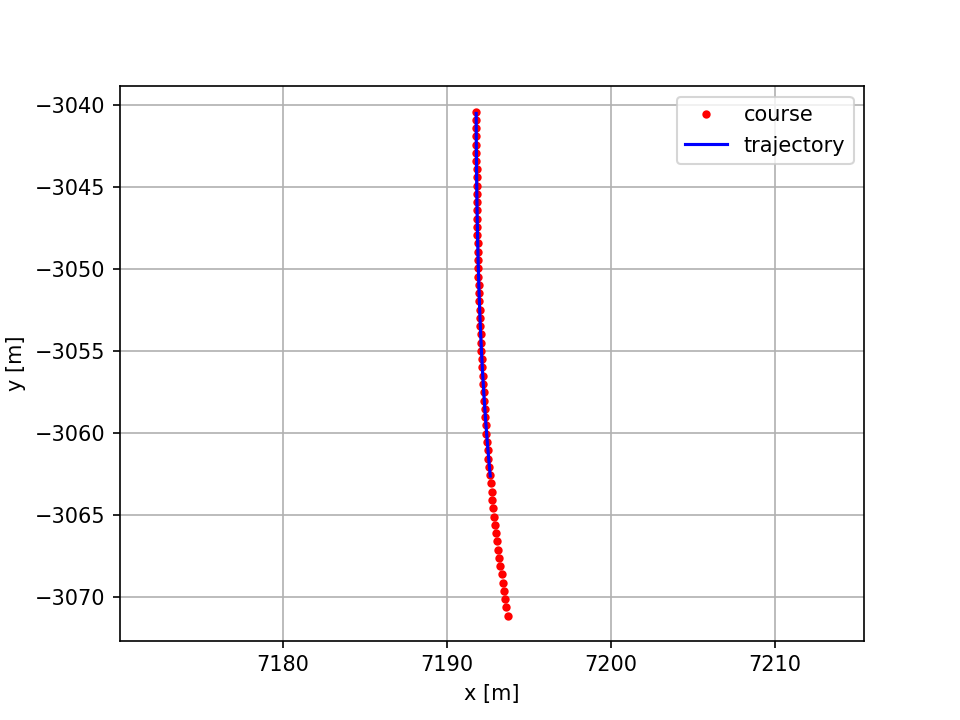
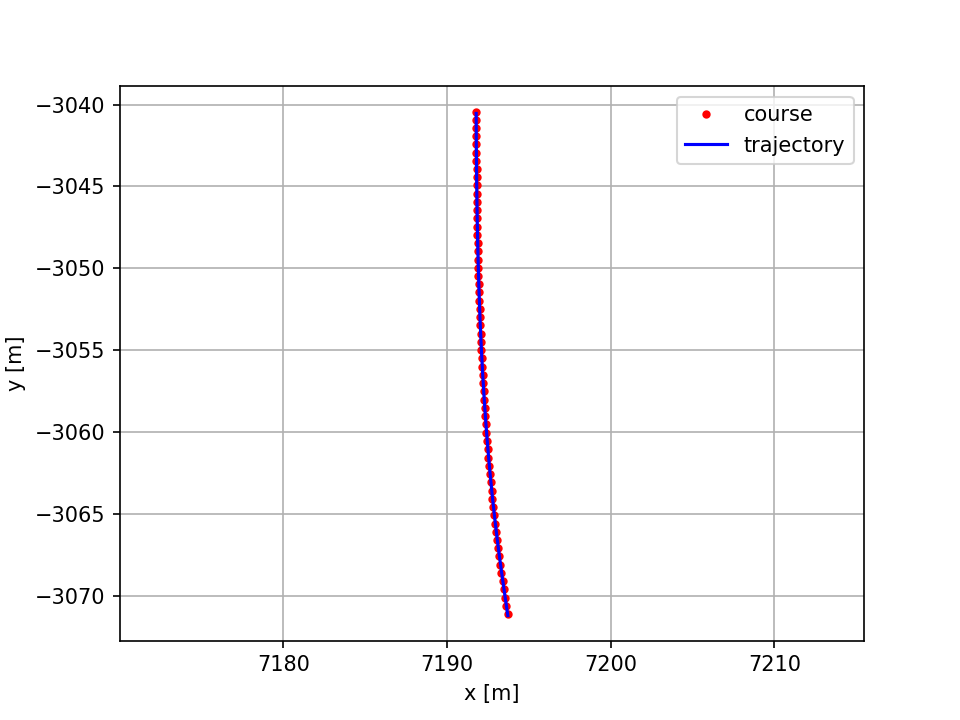
[PurePursuit]  set safe ld

diff --git a/example/demo.cc b/example/demo.cc
@@ -193,14 +193,19 @@ int main() {
       // std::cout<<info<<'\n';
 
       // auto close = cc2->continuousClosest(x1, y1);
+      auto smax=cc2->getSmax();
       auto close = cc2->continuousClosest(p_state.x,p_state.y);
       double ld = ppc.getCurrentLD(std::abs(close.lat_err));
-      std::cout << "close.lat_err=" << close.lat_err << "  close.s=" << close.s << " ld=" << ld << '\n';
       // exit(0);
+      if (std::abs(smax - close.s) < 1e-4) break;
       pursuit::Point2D target{0, 0};
       cc2->findTargetPoint(close, ld, target.first, target.second);
-      std::cout << "target.first=" << target.first << "  target.second=" << target.second << '\n';
-      msg = ppc.fastRun(target, ld);
+
+      // std::cout << "target.first=" << target.first << "  target.second=" << target.second << '\n';
+      // std::cout <<"smax1="<< smax <<"  close.lat_err=" << close.lat_err << "  close.s=" << close.s << " ld=" << ld << '\n';
+      msg = ppc.fastRun(target,ld);
+
+      
     } else {
       // 如果希望每帧插值则在循环中调用
       ppc.setPath(_pathPlanningPointList);
@@ -209,6 +214,7 @@ int main() {
 
     // 使用控制信号和dt更新状态
     ppc.updateVehicleState(msg, dt);
+
     // 更新完毕后获取状态引用
     // p_state.velocity=velocity- p_state.steering_angle/veh_info.max_steer_angle*2;
     count++;
@@ -216,9 +222,9 @@ int main() {
     // 直接调用setVelocity去设置速度
     // 路径改变调用ppc.setPath(_pathPlanningPointList); 去设置路径
 
-    // std::cout << p_state << '\n';
+    // std::cout << p_state << "\n\n";
     log_file << p_state << '\n';
-    if (count >= 200) break;
+    if (count >= 500) break;
     // if (ppc.last_index >= path_len - 1 || ppc.last_index <= 1) break;
   }
   auto end = std::chrono::high_resolution_clock::now();

diff --git a/scripts/transport.py b/scripts/transport.py
@@ -1,0 +1,29 @@
+#!/usr/bin/env python3
+# convert_to_csv.py
+#
+# 将“time    state.x    state.y”这种**以制表符或多个空格分隔**的文本
+# 转换成标准逗号分隔 (CSV) 文件。
+#
+# 用法示例：
+#   python3 convert_to_csv.py raw.txt trajectory.csv
+#
+# ──────────────────────────────────────────────────────────────────────────────
+
+import sys
+import pandas as pd
+
+def convert(in_path: str, out_path: str) -> None:
+    """
+    读取 `in_path`（任意空白符分隔），写出为 `out_path`（CSV）。
+    """
+    # `sep=r'\s+'` 可以同时处理制表符或若干空格
+    df = pd.read_csv(in_path, sep=r'\s+')
+    df.to_csv(out_path, index=False)
+    print(f"✅  已生成 CSV：{out_path}")
+
+if __name__ == "__main__":
+    if len(sys.argv) != 3:
+        print("用法：python3 convert_to_csv.py <输入文本> <输出 CSV>")
+        sys.exit(1)
+
+    convert(sys.argv[1], sys.argv[2])
